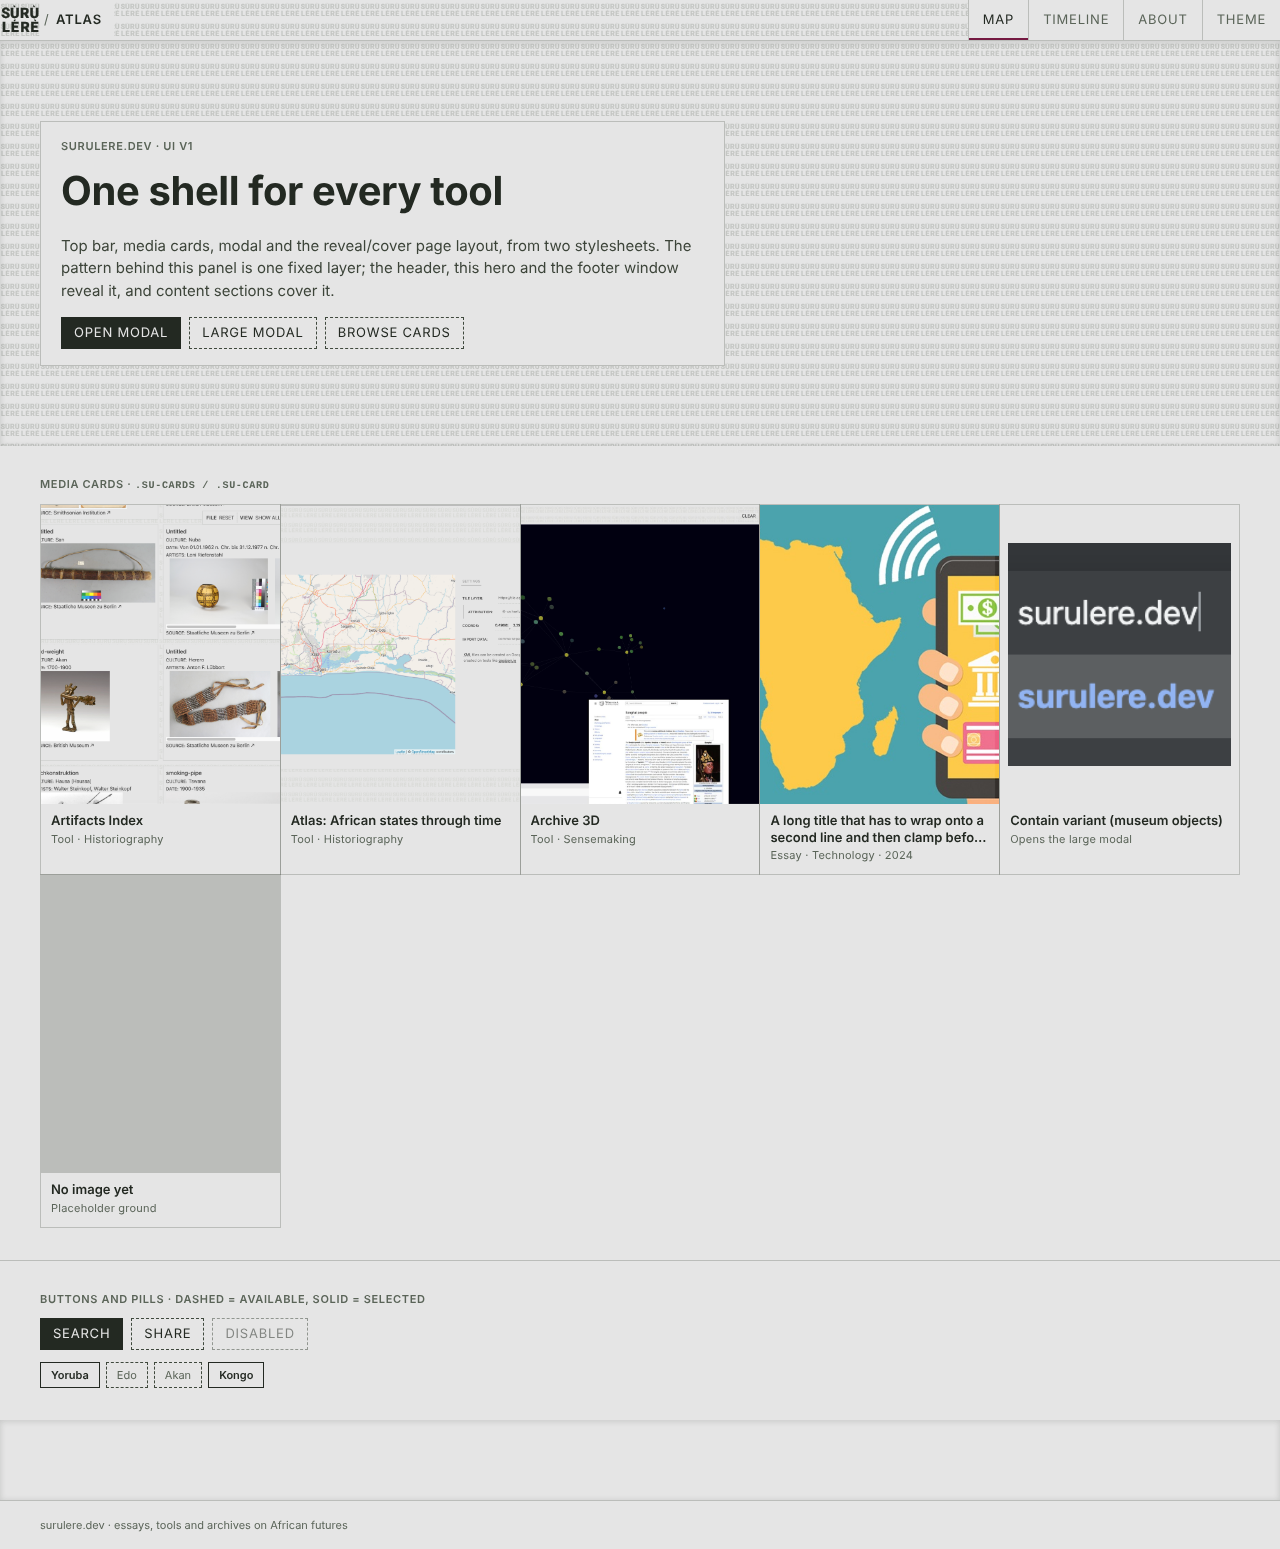
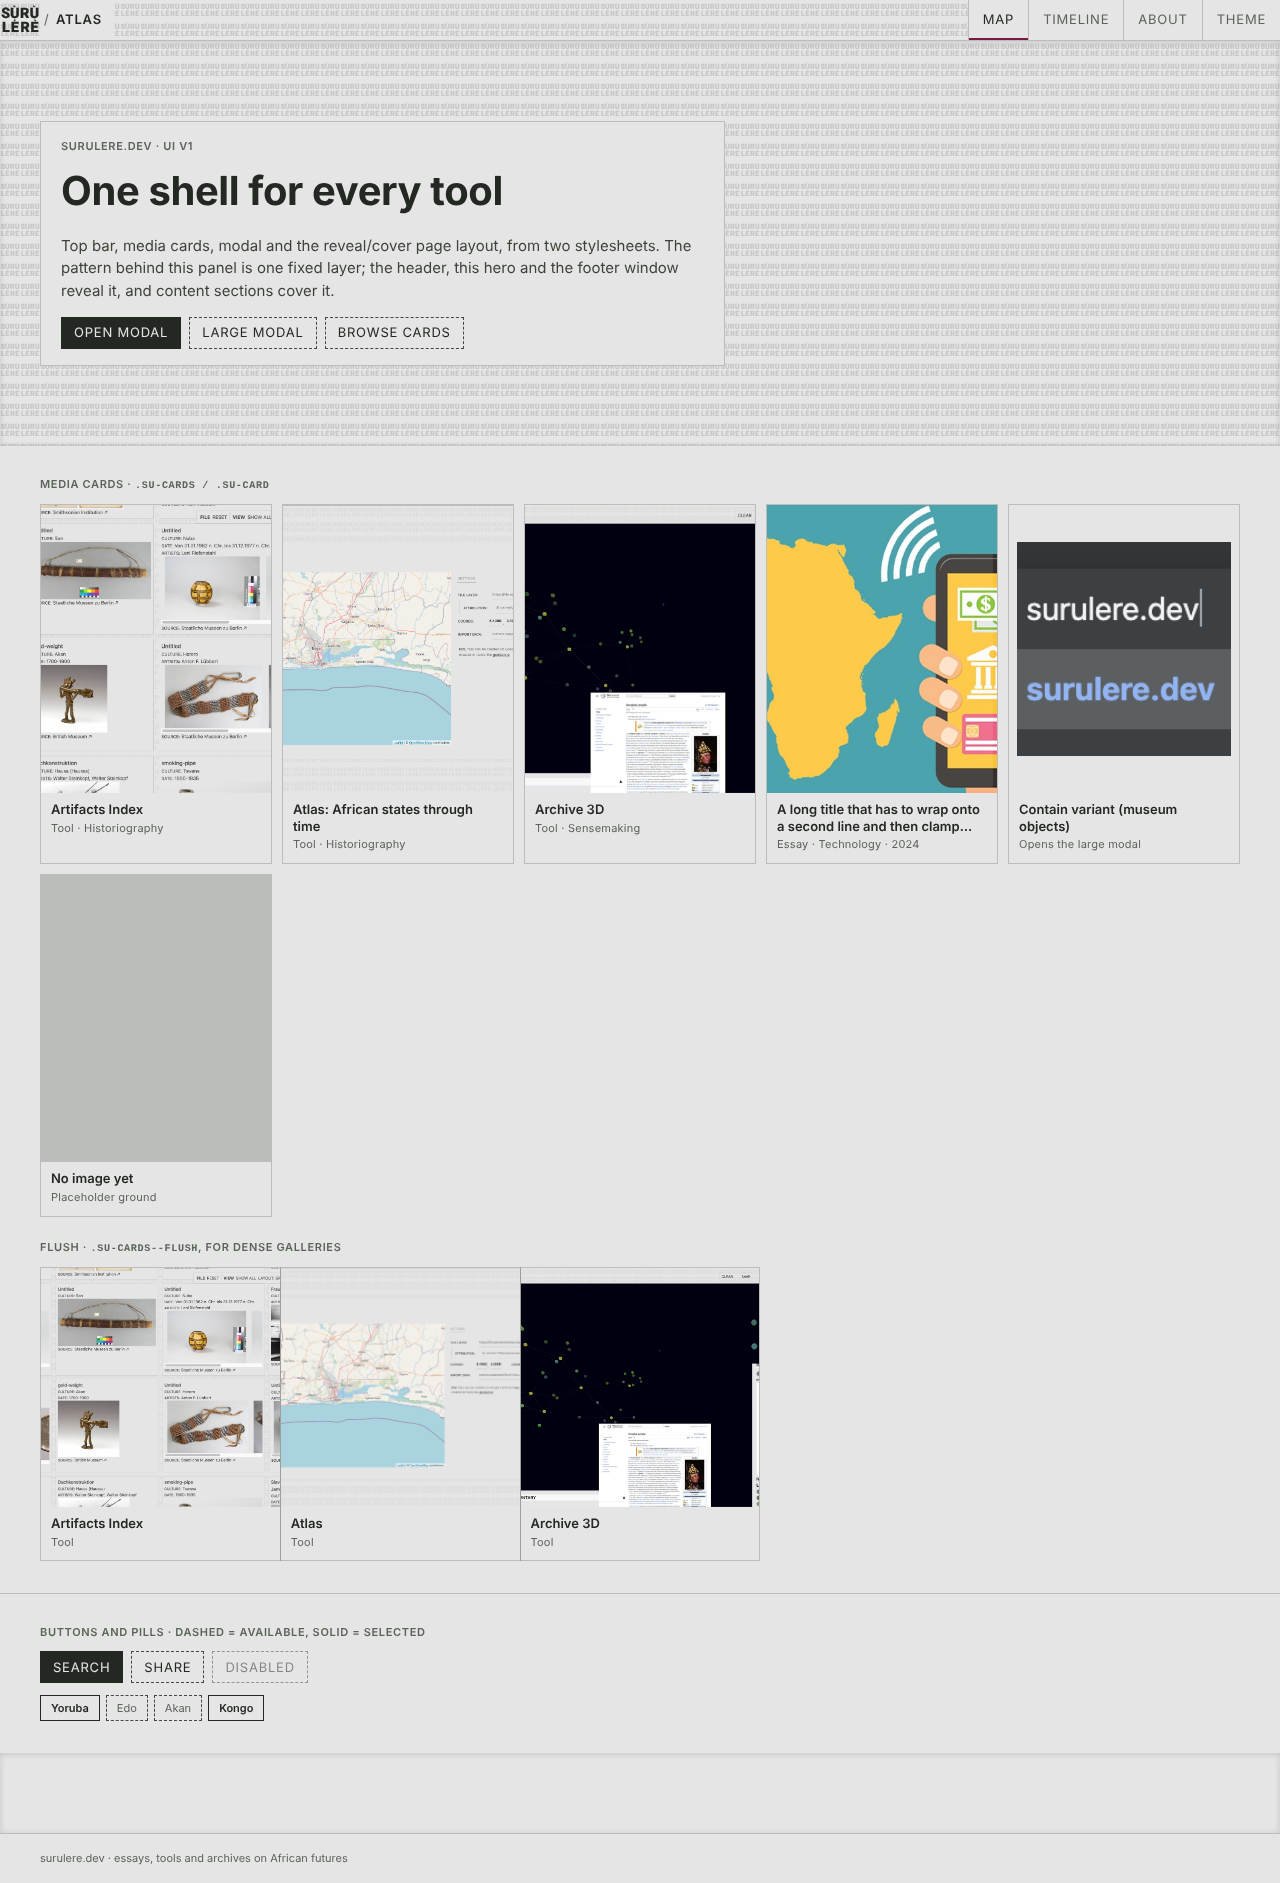
Space media cards apart by default, keep flush as a modifier
- .su-cards now has an 8px gap on phones and 12px wider (--su-card-gap),
  each card in its own hairline ring, so card grids space like the other
  groups on the page
- .su-cards--flush (React: <MediaCards flush>) keeps the hairline-gap
  version for dense galleries
- Demo shows both; the visual check asserts both gaps
- Proposal notes the change from flush tiles and the naming drift in
  african-artifacts' merged card grid

Claude-Session: https://claude.ai/code/session_01FGwSZBHmz5GnHamMRtCeXC

Changed region(s): [[0.0, 0.0, 1.0, 0.9296], [0.375, 0.6817, 0.5938, 0.8367], [0.0312, 0.9606, 0.2812, 0.9916]]

diff --git a/public/ui/v1/demo.html b/public/ui/v1/demo.html
@@ -64,13 +64,19 @@
     <section class="su-cover" id="cards" aria-labelledby="cards-h">
       <div class="su-container">
         <h2 class="su-label" id="cards-h">Media cards · <span class="su-mono">.su-cards / .su-card</span></h2>
-        <ul class="su-cards">
+        <ul class="su-cards" id="cards-spaced">
           <li><a class="su-card" href="#"><span class="su-card__media"><img src="../../artifacts-index-preview.png" alt="" loading="lazy" /></span><span class="su-card__bar"><span class="su-card__title">Artifacts Index</span><span class="su-card__meta">Tool · Historiography</span></span></a></li>
           <li><a class="su-card" href="#"><span class="su-card__media"><img src="../../map-tool-preview.png" alt="" loading="lazy" /></span><span class="su-card__bar"><span class="su-card__title">Atlas: African states through time</span><span class="su-card__meta">Tool · Historiography</span></span></a></li>
           <li><a class="su-card" href="#"><span class="su-card__media"><img src="../../archive-3d-preview.jpeg" alt="" loading="lazy" /></span><span class="su-card__bar"><span class="su-card__title">Archive 3D</span><span class="su-card__meta">Tool · Sensemaking</span></span></a></li>
           <li><a class="su-card" href="#"><span class="su-card__media"><img src="../../africa_fintech.jpg" alt="" loading="lazy" /></span><span class="su-card__bar"><span class="su-card__title">A long title that has to wrap onto a second line and then clamp before it runs into a third</span><span class="su-card__meta">Essay · Technology · 2024</span></span></a></li>
           <li><button class="su-card su-card--contain" type="button" data-su-open="detail"><span class="su-card__media"><img src="../../suruleredotdev.png" alt="" loading="lazy" /></span><span class="su-card__bar"><span class="su-card__title">Contain variant (museum objects)</span><span class="su-card__meta">Opens the large modal</span></span></button></li>
           <li><a class="su-card" href="#"><span class="su-card__media"></span><span class="su-card__bar"><span class="su-card__title">No image yet</span><span class="su-card__meta">Placeholder ground</span></span></a></li>
+        </ul>
+        <h3 class="su-label" style="margin-top:24px">Flush · <span class="su-mono">.su-cards--flush</span>, for dense galleries</h3>
+        <ul class="su-cards su-cards--flush" id="cards-flush">
+          <li><a class="su-card su-card--square" href="#"><span class="su-card__media"><img src="../../artifacts-index-preview.png" alt="" loading="lazy" /></span><span class="su-card__bar"><span class="su-card__title">Artifacts Index</span><span class="su-card__meta">Tool</span></span></a></li>
+          <li><a class="su-card su-card--square" href="#"><span class="su-card__media"><img src="../../map-tool-preview.png" alt="" loading="lazy" /></span><span class="su-card__bar"><span class="su-card__title">Atlas</span><span class="su-card__meta">Tool</span></span></a></li>
+          <li><a class="su-card su-card--square" href="#"><span class="su-card__media"><img src="../../archive-3d-preview.jpeg" alt="" loading="lazy" /></span><span class="su-card__bar"><span class="su-card__title">Archive 3D</span><span class="su-card__meta">Tool</span></span></a></li>
         </ul>
       </div>
     </section>

diff --git a/public/ui/v1/su-components.css b/public/ui/v1/su-components.css
@@ -9,7 +9,8 @@
  *   .su-cover             a section that covers it with solid ground (content)
  *   .su-container         max width + responsive side gutter
  *   .su-topbar            logo / Tool name / segmented bar (.su-seg)
- *   .su-cards, .su-card   media cards: image first, title + meta bar below
+ *   .su-cards, .su-card   media cards: image first, title + meta bar below;
+ *                         spaced by default, .su-cards--flush for hairline tiles
  *   .su-modal             <dialog>: centred on desktop, docked to the bottom on phone
  *   .su-btn, .su-pill     dashed = available, solid = selected
  *   .su-label             small uppercase section label
@@ -223,20 +224,24 @@
 }
 
 /* ── Media cards ─────────────────────────────────────────────────────── */
-/* Tiles sit flush with hairline gaps: each card draws a 1px ring and the
-   grid gap is 1px, so the rings meet. Unlike a coloured grid background,
-   a part-filled last row leaves no stray lines. */
+/* Tiles sit a small gap apart, each in its own 1px ring, so a grid of
+   cards spaces like the other groups on the page (pills, buttons, panels).
+   The ring is a box-shadow, so a part-filled last row leaves no stray lines.
+   .su-cards--flush closes the gap to a hairline: the rings meet and the
+   tiles read as one sheet, for dense galleries. */
 
 .su-cards {
   --su-card-min: 150px;
+  --su-card-gap: 8px;
   display: grid;
   grid-template-columns: repeat(auto-fill, minmax(min(100%, var(--su-card-min)), 1fr));
-  gap: var(--su-hair);
+  gap: var(--su-card-gap);
   margin: 0;
   padding: var(--su-hair);
   list-style: none;
 }
-@media (min-width: 600px) { .su-cards { --su-card-min: 200px; } }
+.su-cards--flush { --su-card-gap: var(--su-hair); }
+@media (min-width: 600px) { .su-cards { --su-card-min: 200px; } .su-cards:not(.su-cards--flush) { --su-card-gap: 12px; } }
 @media (min-width: 1024px) { .su-cards { --su-card-min: 230px; } }
 .su-cards > li { display: contents; }
 

diff --git a/components/su/MediaCard.tsx b/components/su/MediaCard.tsx
@@ -74,14 +74,19 @@ export function MediaCard({
   );
 }
 
-/** The flush grid. Children are MediaCards; each is wrapped in an <li>. */
+/**
+ * The card grid: tiles a small gap apart (8px on phones, 12px wider).
+ * `flush` closes the gap to a hairline for dense galleries.
+ * Children are MediaCards; each is wrapped in an <li>.
+ */
 export function MediaCards({
   children,
   className,
+  flush = false,
   ...rest
-}: React.HTMLAttributes<HTMLUListElement>) {
+}: React.HTMLAttributes<HTMLUListElement> & { flush?: boolean }) {
   return (
-    <ul {...rest} className={["su-cards", className].filter(Boolean).join(" ")}>
+    <ul {...rest} className={["su-cards", flush && "su-cards--flush", className].filter(Boolean).join(" ")}>
       {React.Children.map(children, (child) => (child == null ? null : <li>{child}</li>))}
     </ul>
   );

diff --git a/docs/component-library-proposal.md b/docs/component-library-proposal.md
@@ -159,14 +159,15 @@ It asserts layout facts, not pixels, so it doesn't flake on font rendering acros
 | Page ground + pattern | `.su-page` | `<Page>` | One fixed 20px pattern layer (a `position: fixed` pseudo-element, because iOS Safari ignores `background-attachment: fixed`) |
 | Reveal / cover | `.su-window` (`--hero`, `--footer`), `.su-cover`, `.su-panel`, `.su-container`, `.su-footer` | `<Window>`, `<Cover>`, `<Panel>`, `<Container>`, `<Footer>` | Gutter is 16px under 600px, 24px to 1024px, 40px above |
 | Top bar | `.su-topbar`, `__logo`, `__site`, `.su-seg`, `.su-seg__cell` | `<TopBar site items>` | The segmented bar drops to its own full-width row; cells share it and scroll if there are many. Cells grow to 44px on touch screens |
-| Media card | `.su-cards`, `.su-card` (`--contain`, `--square`, `--wide`), `__media`, `__bar`, `__title`, `__meta` | `<MediaCards>`, `<MediaCard>` | Two columns at 390px (min 150px), auto-fill above |
+| Media card | `.su-cards` (`--flush`), `.su-card` (`--contain`, `--square`, `--wide`), `__media`, `__bar`, `__title`, `__meta` | `<MediaCards flush?>`, `<MediaCard>` | Two columns at 390px (min 150px), auto-fill above. 8px gaps on phone, 12px wider |
 | Modal | `dialog.su-modal` (`--lg`), `__head`, `__title`, `__count`, `__cell`, `__cell-text`, `__close`, `__body`, `__foot` | `<Modal open onClose title actions size scrollKey labelledBy footer>` | Centred on desktop (720px, or 1200px for `lg`); full width and docked to the bottom at 92dvh on phone, safe-area padded. Action cells show only their icons |
 | Buttons, pills | `.su-btn` (`--primary`), `.su-pill` + `aria-pressed`, `.su-pills`, `.su-label` | Plain classes | 44px targets on coarse pointers |
 
 ### Design details worth knowing
 
 - **The sticky top bar** can't be a see-through window, because content scrolls under it. It carries its own copy of the pattern over solid ground. That copy is also fixed to the viewport and clipped to the bar, so its tiles line up exactly with the page's.
-- **Flush cards with hairlines:** each card draws a 1px ring with `box-shadow` and the grid gap is 1px, so rings meet. A coloured grid background would leave stray lines in a part-filled last row; this doesn't.
+- **Spaced cards by default:** cards sit 8px apart on phones and 12px wider, each in its own 1px ring (a `box-shadow`), so a card grid spaces like the other groups on the page. This changes the original direction of flush tiles, after feedback that spacing fits the rest of the app better. `.su-cards--flush` (React: `<MediaCards flush>`) keeps the hairline-gap version for dense galleries. Either way a part-filled last row leaves no stray lines.
+- **african-artifacts has drifted:** its merged card grid uses different names (`.su-card-grid`, `.su-card-row`, `.su-media-card`) and is still flush. When it moves into the library, it takes the `su-cards`/`su-card` names and the new default gap, or adds `--flush` where it wants to stay dense.
 - **The modal is a native `<dialog>`.** Focus trap, Escape, top layer and `inert` background come from the browser. React only mirrors `open`. Plain pages get backdrop-click from `su.js`. `html:has(.su-modal[open])` locks the page scroll behind it.
 - **The modal header is a bar of cells**, like the top bar: title (with an optional `__count` such as "12 / 48"), then `actions` cells such as ‹ PREV / NEXT ›, then close. The cells sit in the header, so they never scroll away. `scrollKey` returns the body to the top when its content changes.
 - **Same API in both repos.** `components/su/Modal.tsx` matches `Modal` in african-artifacts PR #85 (props `open`, `onClose`, `title`, `children`, `footer`, `actions`, `size`, `closeLabel`, `labelledBy`, `scrollKey`, and the same `su-modal*` classes). It's the first component in use outside this repo; when that PR merges, its CSS can move to `/ui/v1/` and the two files stay identical.
